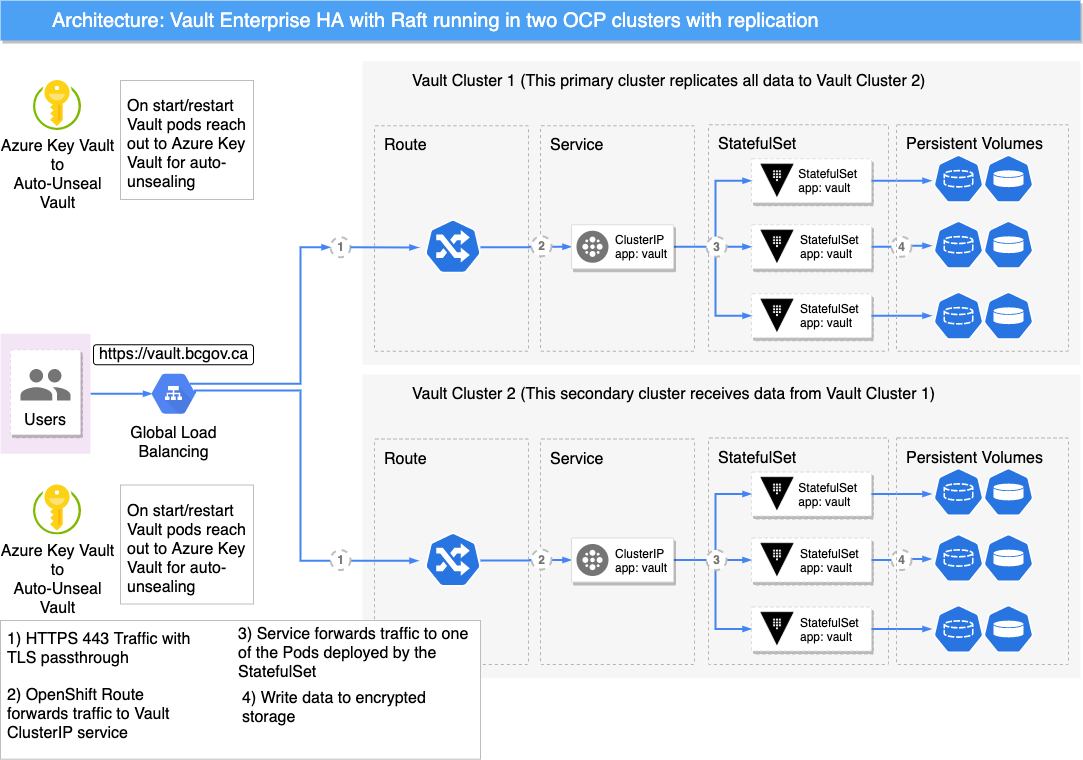
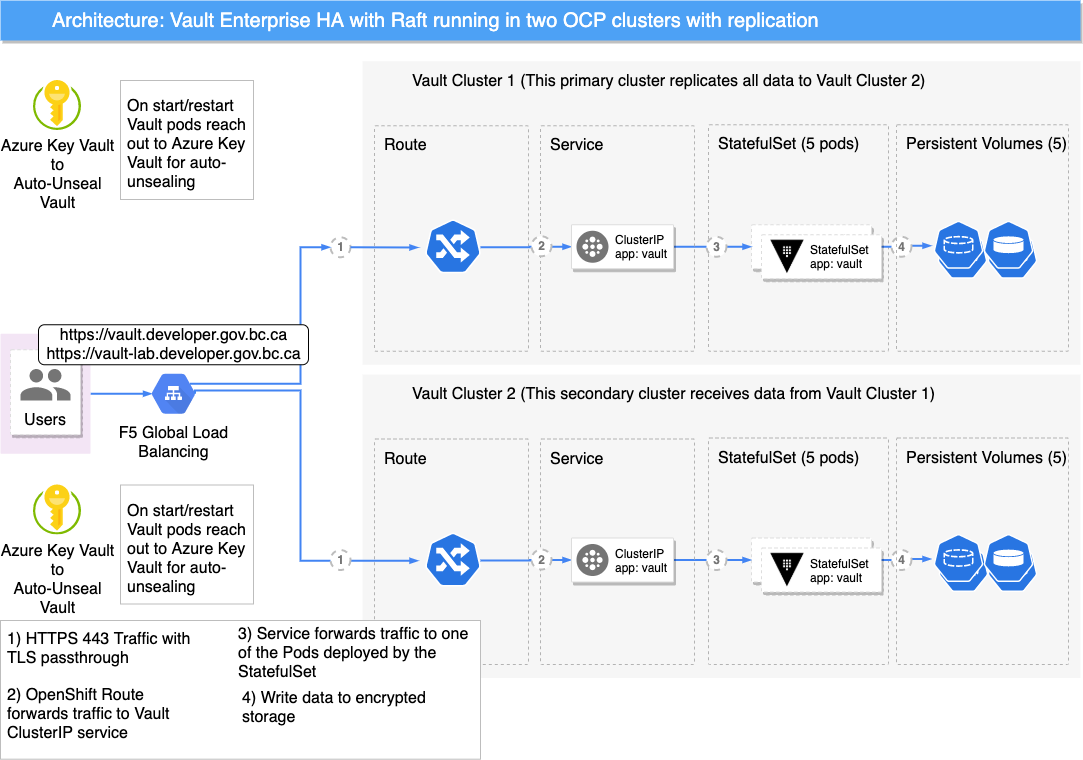
add trafficflow diagram, updated arch diagram - update vault_install role - variable for number of replicas (role default 5)

diff --git a/security/vault/docs/introduction.md b/security/vault/docs/introduction.md
@@ -17,7 +17,7 @@ The API is exposed via an OpenShift Route.
 This Route object forwards the TLS traffic in passthrough mode to the underlying Vault Service object.
 The Service object then communicates with Vault's StatefulSet, which writes its data to a Persistent Volume.
 
-The Vault pods operate in a highly-available cluster mode employing the Raft consensus algorithm for data replication inside the Vault cluster.
+The five Vault pods operate in a highly-available cluster mode employing the Raft consensus algorithm for data replication inside the Vault cluster.
 
 ## Multi-Cluster Architecture
 
@@ -33,3 +33,20 @@ This Chart is used in this project to template out the Kubernetes manifests befo
 to the cluster (figure below).
 
 !["Vault provisioning workflow with Ansible"](./assets/images/vault-mvp-workflow-ocp.png "Vault provisioning workflow with Ansible")
+
+## Traffic Flow
+
+The Vault project team together with DXC has settled on the following DNS and traffic flow (figure below).
+Traffic will flow to either the `vault.developer.gov.bc.ca` vanity domain for the production cluster, or to
+`vault-lab.developer.gov.bc.ca`.
+
+An F5 load balancer will run health checks against the Vault clusters.
+Typically, the left side in the diagram is the active site (`one.vault.developer.gov.bc.ca`). The right side
+(`two.vault.developer.gov.bc.ca`) will not receive traffic from any clients until the health check
+to the primary/left side fails. \
+This is the Disaster Recovery (DR) scenario.
+In a DR case, the F5 can either fail over the traffic automatically to the right side, or it can be a manual step.
+
+Importantly, while the failover steps for the Vault application can be automated to an extent, it will require manual intervention.
+
+!["Vault DNS and traffic flow"](./assets/images/trafficflow_vault_dns_lb.png "Vault DNS and traffic flow")

diff --git a/security/vault/docs/bootstrapping.md b/security/vault/docs/bootstrapping.md
@@ -23,7 +23,7 @@ kubectl exec -ti vault-0 -n ${NAMESPACE} -- vault operator init -key-shares=5 -k
 
 The output of the above command looks similar to this:
 
-```bash 
+```bash
 Unseal Key 1: x5+JLLgw8V3yGb9HWlElHtFXpcgijfR8t/d/cbD+qrE=
 Unseal Key 2: ...
 Unseal Key 3: ...
